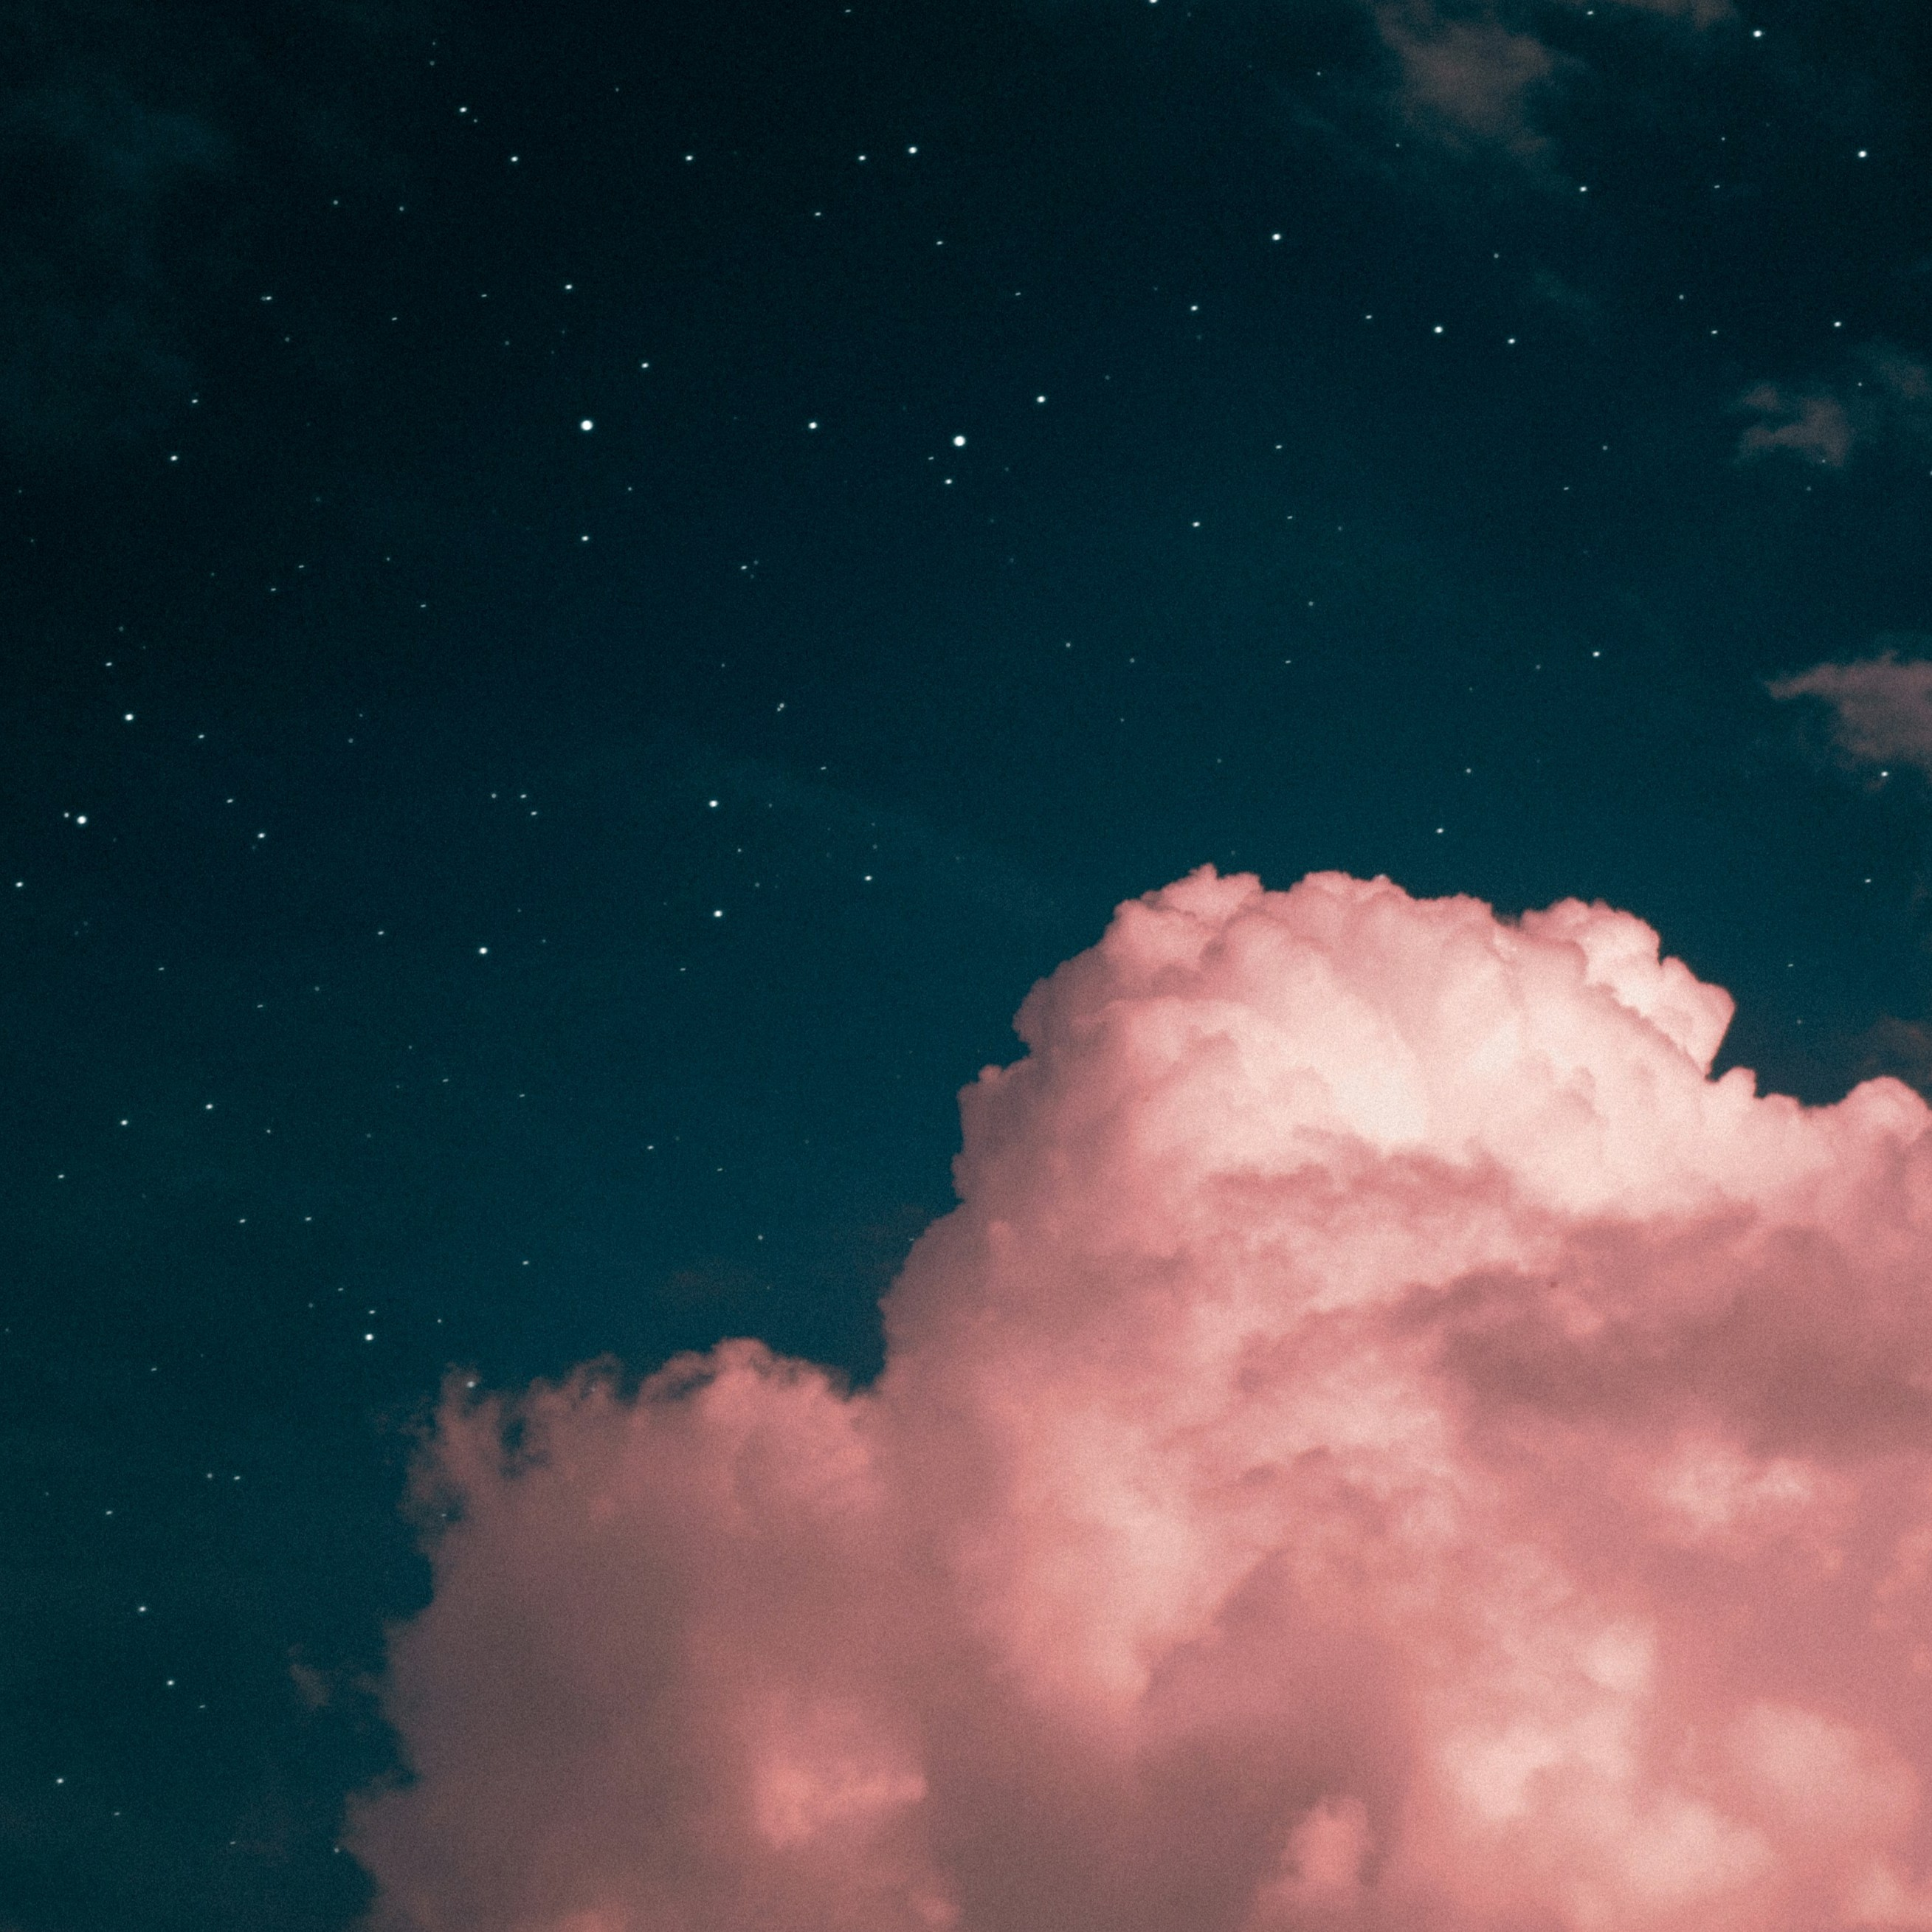
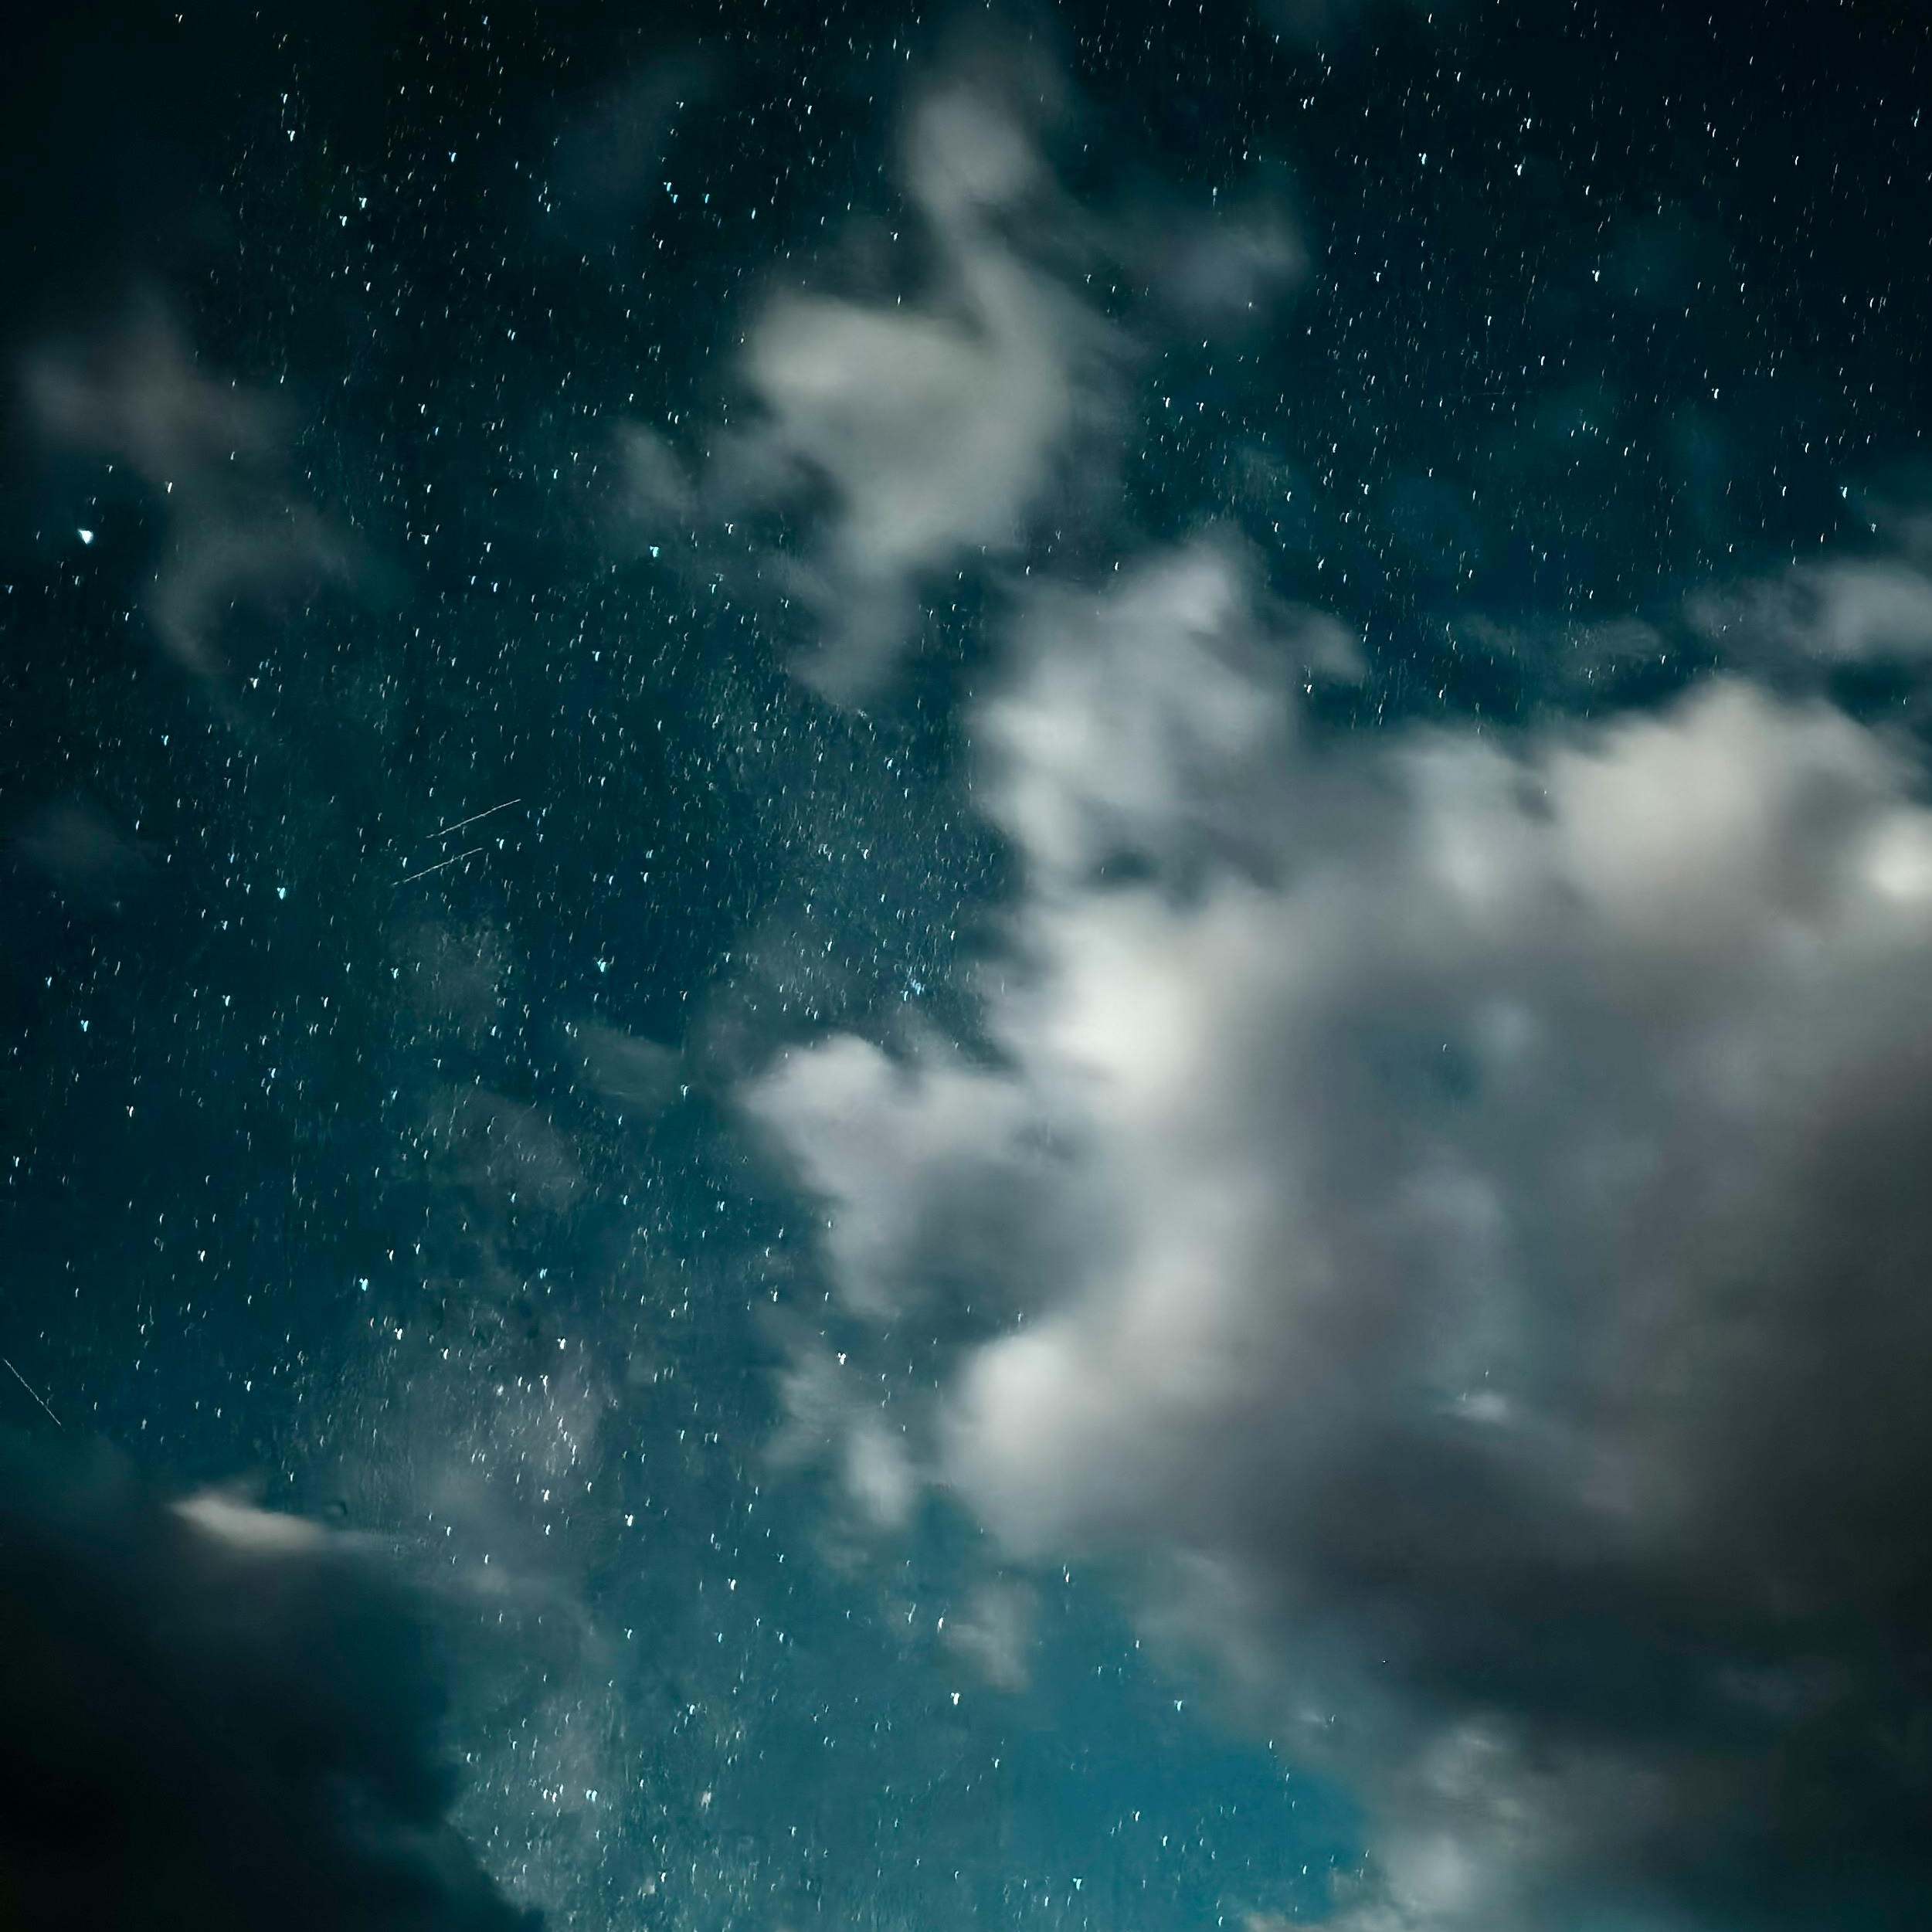
Feat : working on current weatehr section

diff --git a/src/components/WeatherIcons.tsx b/src/components/WeatherIcons.tsx
@@ -1,97 +1,146 @@
 import type { TWeatherIcon } from "../schemas/weather.schema";
+import type { IconSvgObject } from "@hugeicons/core-free-icons";
 
-import { clsx } from "clsx";
+import {
+    CloudAngledRainIcon,
+    CloudAngledZapIcon,
+    CloudIcon,
+    CloudMidRainIcon,
+    CloudMidSnowIcon,
+    Moon02Icon,
+    MoonCloudIcon,
+    Sun03Icon,
+    SunCloud02Icon,
+} from "@hugeicons/core-free-icons";
+import { HugeiconsIcon } from "@hugeicons/react";
 
-import img01d from "./../assets/icons/01d.png";
-import img01n from "./../assets/icons/01n.png";
-import img02d from "./../assets/icons/02d.png";
-import img02n from "./../assets/icons/02n.png";
-import img03d from "./../assets/icons/03d.png";
-import img03n from "./../assets/icons/03n.png";
-import img04d from "./../assets/icons/04d.png";
-import img04n from "./../assets/icons/04n.png";
-import img09d from "./../assets/icons/09d.png";
-import img09n from "./../assets/icons/09n.png";
-import img10d from "./../assets/icons/10d.png";
-import img10n from "./../assets/icons/10n.png";
-import img11d from "./../assets/icons/11d.png";
-import img11n from "./../assets/icons/11n.png";
-import img13d from "./../assets/icons/13d.png";
-import img13n from "./../assets/icons/13n.png";
-import img50d from "./../assets/icons/50d.png";
-import img50n from "./../assets/icons/50n.png";
-import imgFullmoon from "./../assets/icons/fullmoon.png";
-import imgHumidity from "./../assets/icons/humidity.png";
-import imgMoonphase from "./../assets/icons/moonphase.png";
-import imgMoonrise from "./../assets/icons/moonrise.png";
-import imgMoonset from "./../assets/icons/moonset.png";
-import imgPressure from "./../assets/icons/pressure.png";
-import imgRainchance from "./../assets/icons/rainchance.png";
-import imgSunrise from "./../assets/icons/sunrise.png";
-import imgSunset from "./../assets/icons/sunset.png";
-import imgUvindex from "./../assets/icons/uvindex.png";
-import imgWindspeed from "./../assets/icons/windspeed.png";
+type TIcons = TWeatherIcon;
+// | "fullmoon"
+// | "humidity"
+// | "moonphase"
+// | "moonrise"
+// | "moonset"
+// | "pressure"
+// | "rainchance"
+// | "sunrise"
+// | "sunset"
+// | "uvindex"
+// | "windspeed";
 
-type TIcons =
-    | TWeatherIcon
-    | "fullmoon"
-    | "humidity"
-    | "moonphase"
-    | "moonrise"
-    | "moonset"
-    | "pressure"
-    | "rainchance"
-    | "sunrise"
-    | "sunset"
-    | "uvindex"
-    | "windspeed";
-
-type TIconSize = "sm" | "md" | "lg";
-
-type TProps = {
-    type: TIcons;
-    size?: TIconSize;
-    className?: string;
+const CloudyIcon = function (props: React.SVGProps<SVGSVGElement>) {
+    const strokeWidth = props.strokeWidth;
+    return (
+        <svg
+            xmlns="http://www.w3.org/2000/svg"
+            viewBox="0 0 24 24"
+            width={48}
+            height={48}
+            color={"currentColor"}
+            fill={"none"}
+            {...props}
+        >
+            <path
+                d="M14.3821 12.8C14.388 12.8 14.394 12.8 14.4 12.8C16.3882 12.8 18 14.4118 18 16.4C18 18.3882 16.3882 20 14.4 20H6C3.79086 20 2 18.2091 2 16C2 13.9203 3.58718 12.2113 5.61634 12.0182M13.8675 14.5C14.1469 13.9866 14.327 13.4113 14.3821 12.8C14.3939 12.6683 14.4 12.5349 14.4 12.4C14.4 9.96995 12.4301 8 10 8C7.69859 8 5.80986 9.7669 5.61634 12.0182M5.61634 12.0182C5.74261 12.0061 5.87059 12 6 12C6.72857 12 7.41165 12.1948 8 12.5351"
+                stroke="currentColor"
+                strokeWidth={strokeWidth}
+                strokeLinecap="round"
+                strokeLinejoin="round"
+            ></path>
+            <path
+                d="M18.3829 8.80004C18.3889 8.80001 18.3949 8.8 18.4008 8.8C20.3891 8.8 22.0008 10.4118 22.0008 12.4C22.0008 13.3661 21.6203 14.2434 21.0009 14.89M18.3829 8.80004C18.3948 8.66829 18.4008 8.53485 18.4008 8.4C18.4008 5.96995 16.4309 4 14.0008 4C11.6994 4 9.81071 5.7669 9.61719 8.01816M18.3829 8.80004C18.3451 9.21981 18.2483 9.62258 18.1009 10"
+                stroke="currentColor"
+                strokeWidth={strokeWidth}
+                strokeLinecap="round"
+                strokeLinejoin="round"
+            ></path>
+        </svg>
+    );
 };
 
-const ICONS: Record<TIcons, string> = {
-    "01d": img01d,
-    "01n": img01n,
-    "02d": img02d,
-    "02n": img02n,
-    "03d": img03d,
-    "03n": img03n,
-    "04d": img04d,
-    "04n": img04n,
-    "09d": img09d,
-    "09n": img09n,
-    "10d": img10d,
-    "10n": img10n,
-    "11d": img11d,
-    "11n": img11n,
-    "13d": img13d,
-    "13n": img13n,
-    "50d": img50d,
-    "50n": img50n,
-    fullmoon: imgFullmoon,
-    humidity: imgHumidity,
-    moonphase: imgMoonphase,
-    moonrise: imgMoonrise,
-    moonset: imgMoonset,
-    pressure: imgPressure,
-    rainchance: imgRainchance,
-    sunrise: imgSunrise,
-    sunset: imgSunset,
-    uvindex: imgUvindex,
-    windspeed: imgWindspeed,
-} as const satisfies Record<TIcons, string>;
+const CloudFogIcon = function (props: React.SVGProps<SVGSVGElement>) {
+    const strokeWidth = props.strokeWidth;
+    return (
+        <svg
+            xmlns="http://www.w3.org/2000/svg"
+            viewBox="0 0 24 24"
+            width={48}
+            height={48}
+            color={"currentColor"}
+            fill={"none"}
+            {...props}
+        >
+            <path
+                d="M17.4776 9.50005C17.485 9.50002 17.4925 9.5 17.5 9.5C19.9853 9.5 22 11.5147 22 14C22 15.7415 21.0108 17.2519 19.5636 18M16.9003 11.5C17.2119 10.8904 17.4131 10.2149 17.4776 9.50005C17.4924 9.33536 17.5 9.16856 17.5 9C17.5 5.96243 15.0376 3.5 12 3.5C9.12324 3.5 6.76233 5.70862 6.52042 8.5227M6.52042 8.5227C3.98398 8.76407 2 10.9003 2 13.5C2 15.1358 2.78555 16.5882 4 17.5004M6.52042 8.5227C6.67826 8.50768 6.83823 8.5 7 8.5C7.7111 8.5 8.38754 8.64845 9 8.91604"
+                stroke="currentColor"
+                strokeWidth={strokeWidth}
+                strokeLinecap="round"
+                strokeLinejoin="round"
+            ></path>
+            <path
+                d="M15 16.5H8"
+                stroke="currentColor"
+                strokeWidth={strokeWidth}
+                strokeLinecap="round"
+                strokeLinejoin="round"
+            ></path>
+            <path
+                d="M16 20.5H10"
+                stroke="currentColor"
+                strokeWidth={strokeWidth}
+                strokeLinecap="round"
+                strokeLinejoin="round"
+            ></path>
+        </svg>
+    );
+};
 
-const sizes = {
-    sm: "h-[4.5rem] w-[4.5rem]",
-    md: "h-[6rem] w-[6rem]",
-    lg: "h-[9rem] w-[9rem]",
-} as const satisfies Record<TIconSize, string>;
+type HugeIconType = typeof Sun03Icon;
+type CustomIconComponent = React.ComponentType<React.SVGProps<SVGSVGElement>>;
 
-export default function WeatherIcons({ type, size = "sm", className = "" }: TProps) {
-    return <img className={clsx(sizes[size], className)} src={ICONS[type]} alt={type} />;
+const HUGE_ICONS: Partial<Record<TIcons, HugeIconType>> = {
+    "01d": Sun03Icon,
+    "01n": Moon02Icon,
+    "02d": SunCloud02Icon,
+    "02n": MoonCloudIcon,
+    "03d": CloudIcon,
+    "03n": CloudIcon,
+
+    "09d": CloudMidRainIcon,
+    "09n": CloudMidRainIcon,
+    "10d": CloudAngledRainIcon,
+    "10n": CloudAngledRainIcon,
+    "11d": CloudAngledZapIcon,
+    "11n": CloudAngledZapIcon,
+    "13d": CloudMidSnowIcon,
+    "13n": CloudMidSnowIcon,
+};
+
+const CUSTOM_ICONS: Partial<Record<TIcons, CustomIconComponent>> = {
+    "04d": CloudyIcon,
+    "04n": CloudyIcon,
+    "50d": CloudFogIcon,
+    "50n": CloudFogIcon,
+};
+
+export default function WeatherIcons({
+    type,
+    className = "h-6 w-6",
+    strokeWidth = 2,
+}: {
+    type: TIcons;
+    className?: string;
+    strokeWidth?: number;
+}) {
+    const HugeIcon = HUGE_ICONS[type];
+    const CustomIcon = CUSTOM_ICONS[type];
+
+    if (HugeIcon) {
+        return <HugeiconsIcon icon={HugeIcon} strokeWidth={strokeWidth} className={className} />;
+    }
+
+    if (CustomIcon) {
+        return <CustomIcon className={className} strokeWidth={strokeWidth} />;
+    }
+
+    return null;
 }

diff --git a/src/components/CurrentWeather.tsx b/src/components/CurrentWeather.tsx
@@ -5,8 +5,6 @@ import { cn } from "@/lib/utils";
 import { useWeatherQuery } from "@/queries/weather.query";
 import { getTimeDetails, type TTimeDetails } from "@/utils/time-fn.util";
 
-import WeatherIcons from "./WeatherIcons";
-
 export default function CurrentWeather() {
     const { currentLocation } = useLocationContext();
     const { isFetching, data } = useWeatherQuery(
@@ -25,34 +23,34 @@ export default function CurrentWeather() {
     if (isFetching) return <div>Loading...</div>;
 
     return (
-        <div className="rounded-md bg-card bg-linear-to-bl from-orange-500 to-orange-50 p-4">
+        <div className="rounded-md bg-card bg-linear-to-bl from-orange-400 to-orange-100 p-2 shadow-2xl sm:p-3 dark:from-blue-500 dark:to-slate-900/12">
             <div
                 className={cn(
-                    "grid gap-4 ",
-                    "h-124 grid-cols-[15rem_auto_auto] grid-rows-2",
+                    "grid gap-2 sm:gap-3",
+                    "h-124 grid-cols-1 grid-rows-2",
+                    "smmd:grid-cols-[15rem_auto_auto] smmd:grid-rows-2",
                     "mdlg:h-64 mdlg:grid-cols-[16rem_auto_16rem] mdlg:grid-rows-1",
                 )}
             >
-                <ImageOverlay icon={icon!} className="aspect-square w-full" />
-                <div className={cn("col-span-2 col-start-2", "mdlg:col-span-1")}>Green</div>
+                <ImageOverlay icon={icon!} className="w-full smmd:aspect-square" />
+                <div
+                    className={cn(
+                        "smmd:col-span-2 smmd:col-start-2 bg-background rounded-md p-4",
+                        "mdlg:col-span-1",
+                    )}
+                >
+                    <Time timeD />
+                </div>
                 <MiniMap
                     lat={Number(currentLocation?.lat || 0)}
                     lon={Number(currentLocation?.lon || 0)}
-                    className={cn("w-full aspect-square, col-span-3", "mdlg:col-span-1", "")}
+                    className={cn(
+                        "w-full aspect-square, col-span-3",
+                        "mdlg:col-span-1",
+                        "hidden smmd:block",
+                    )}
                 />
             </div>
-            {/*<ImageOverlay className="col-span-1" icon={icon!} />
-            <div></div>
-            <MiniMap
-                className="col-span-1 -col-start-1"
-                lat={Number(currentLocation?.lat || 0)}
-                lon={Number(currentLocation?.lon || 0)}
-            />*/}
-            {/*<div>
-                <WeatherIcons type={icon!} size="lg" />
-                <span>{temperature}</span>
-                <span>{description}</span>
-            </div>*/}
         </div>
     );
 }
@@ -119,13 +117,13 @@ function ImageOverlay({ icon, className }: { icon: string; className?: string })
 
 function MiniMap({ lat, lon, className }: { lat: number; lon: number; className?: string }) {
     return (
-        <div className={cn(className, "rounded-md border-2 border-border/40 overflow-hidden")}>
+        <div id="miniMap" className={cn(className, "rounded-md overflow-hidden")}>
             <MapContainer
                 center={[lat, lon]}
                 zoom={7}
                 scrollWheelZoom={true}
                 className="h-full w-full"
-                zoomControl={false}
+                zoomControl={true}
             >
                 <TileLayer
                     attribution='&copy; <a href="https://www.openstreetmap.org/copyright">OpenStreetMap</a> contributors'

diff --git a/src/styles/index.css b/src/styles/index.css
@@ -56,3 +56,22 @@
         @apply text-secondary-foreground/80;
     }
 }
+
+/*#miniMap .leaflet-control-zoom-in,
+#miniMap .leaflet-control-zoom-out,
+#miniMap .leaflet-layer,
+#miniMap .leaflet-control-attribution {
+    filter: invert(100%) hue-rotate(180deg) brightness(95%) contrast(100%);
+}*/
+
+/*.leaflet-control-attribution {
+    z-index: 800 !important;
+}*/
+
+.leaflet-bottom.leaflet-right {
+    z-index: 800 !important;
+}
+
+.leaflet-top.leaflet-left {
+    z-index: 700 !important;
+}

diff --git a/src/components/layout/Forecast.tsx b/src/components/layout/Forecast.tsx
@@ -3,6 +3,7 @@ import { useWeatherQuery } from "@/queries/weather.query";
 
 import CurrentLocation from "../CurrentLocation";
 import CurrentWeather from "../CurrentWeather";
+import WeatherIcons from "../WeatherIcons";
 import Container from "./Container";
 
 export default function Forecast() {
@@ -12,12 +13,11 @@ export default function Forecast() {
         Number(currentLocation?.lon || 0),
     );
 
-    console.log(currentLocation?.lat);
-    console.log(currentLocation?.lon);
     if (isFetching) return <div>Loading...</div>;
     if (isError) {
         return <div>{error.message}</div>;
     }
+
     return (
         <Container>
             <CurrentLocation />

diff --git a/index.html b/index.html
@@ -15,7 +15,7 @@
             integrity="sha256-20nQCchB9co0qIjJZRGuk2/Z9VM+kNiyxNV1lvTlZBo="
             crossorigin=""
         ></script>
-        <title>SkyCast | Weather Dashborad</title>
+        <title>MistCast | Weather Dashborad</title>
 
         <!-- Prevents dark mode flash on reload -->
         <style>

diff --git a/src/components/CurrentLocation.tsx b/src/components/CurrentLocation.tsx
@@ -6,7 +6,7 @@ import { useLocationContext } from "@/contexts/location.context";
 export default function CurrentLocation() {
     const { currentLocation } = useLocationContext();
     return (
-        <div className="flex items-center gap-1.5 py-4 text-secondary">
+        <div className="flex items-center gap-1.5 pt-4 pb-2 text-secondary">
             <HugeiconsIcon icon={Location05Icon} size={18} />
             <span>{currentLocation?.display_name}</span>
         </div>

diff --git a/src/components/LocationsPopover.tsx b/src/components/LocationsPopover.tsx
@@ -28,7 +28,7 @@ export default function LocationsPopover({
     return (
         <div
             className={cn(
-                "absolute top-12 w-[20rem] transition-all duration-300 border border-border bg-background p-1 rounded-md",
+                "absolute top-12 w-[20rem] transition-all duration-300 border border-border bg-background p-1 rounded-md z-1000",
                 isOpen
                     ? "visible opacity-100 translate-y-0"
                     : "invisible opacity-0 -translate-y-2 pointer-events-none",

diff --git a/src/components/layout/Container.tsx b/src/components/layout/Container.tsx
@@ -1,3 +1,3 @@
 export default function Container({ children }: { children: React.ReactNode }) {
-    return <div className="mx-auto w-full max-w-screen-2xl px-8">{children}</div>;
+    return <div className="mx-auto w-full max-w-screen-2xl px-5 sm:px-8">{children}</div>;
 }